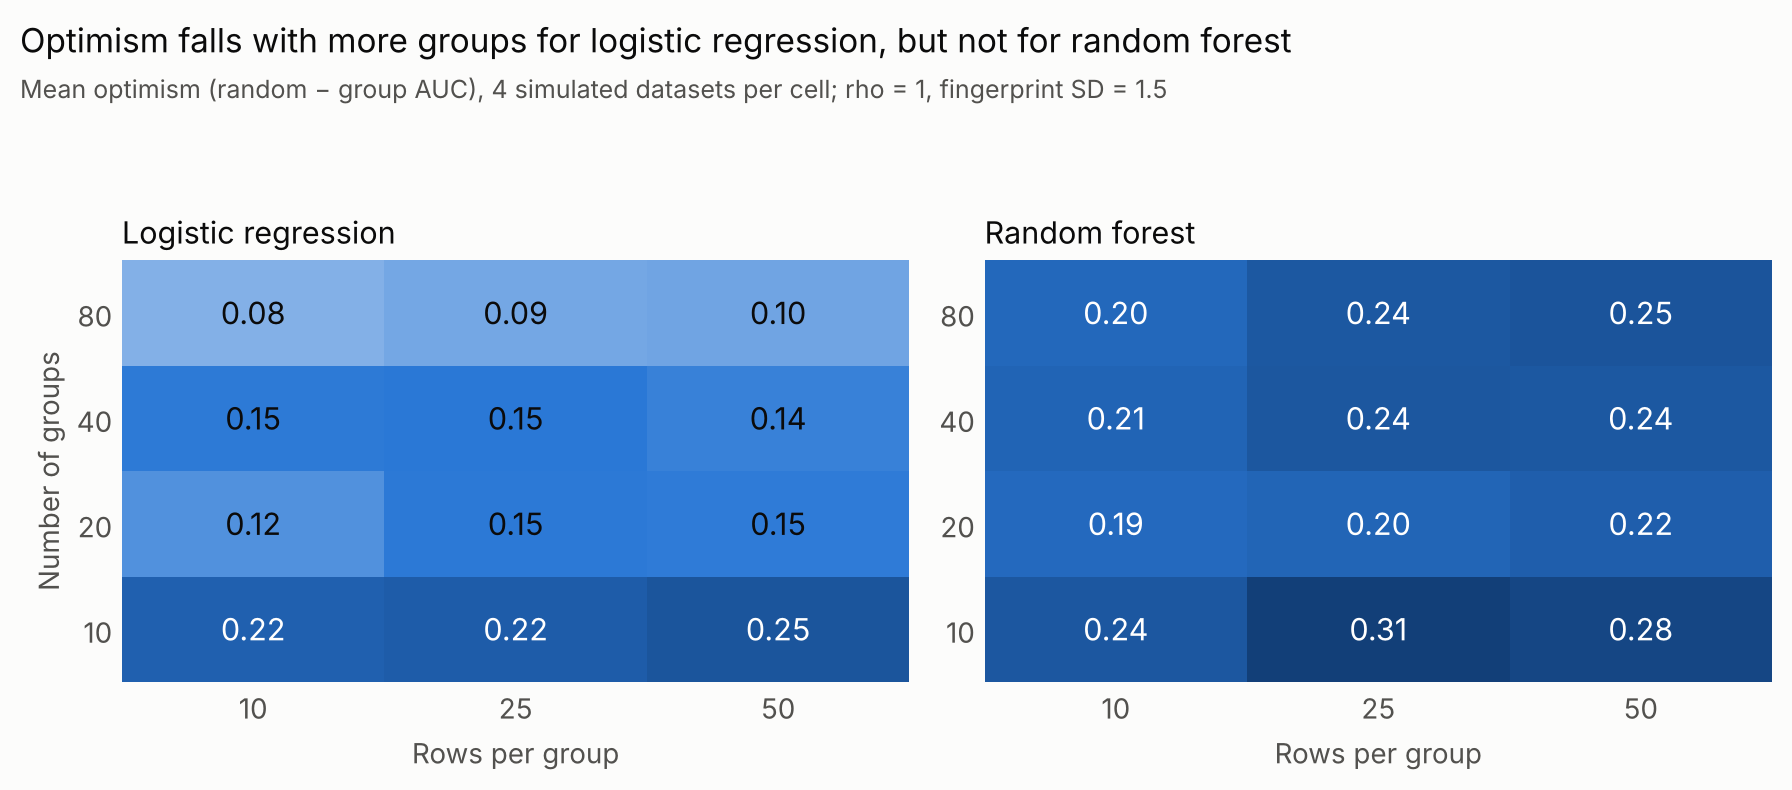
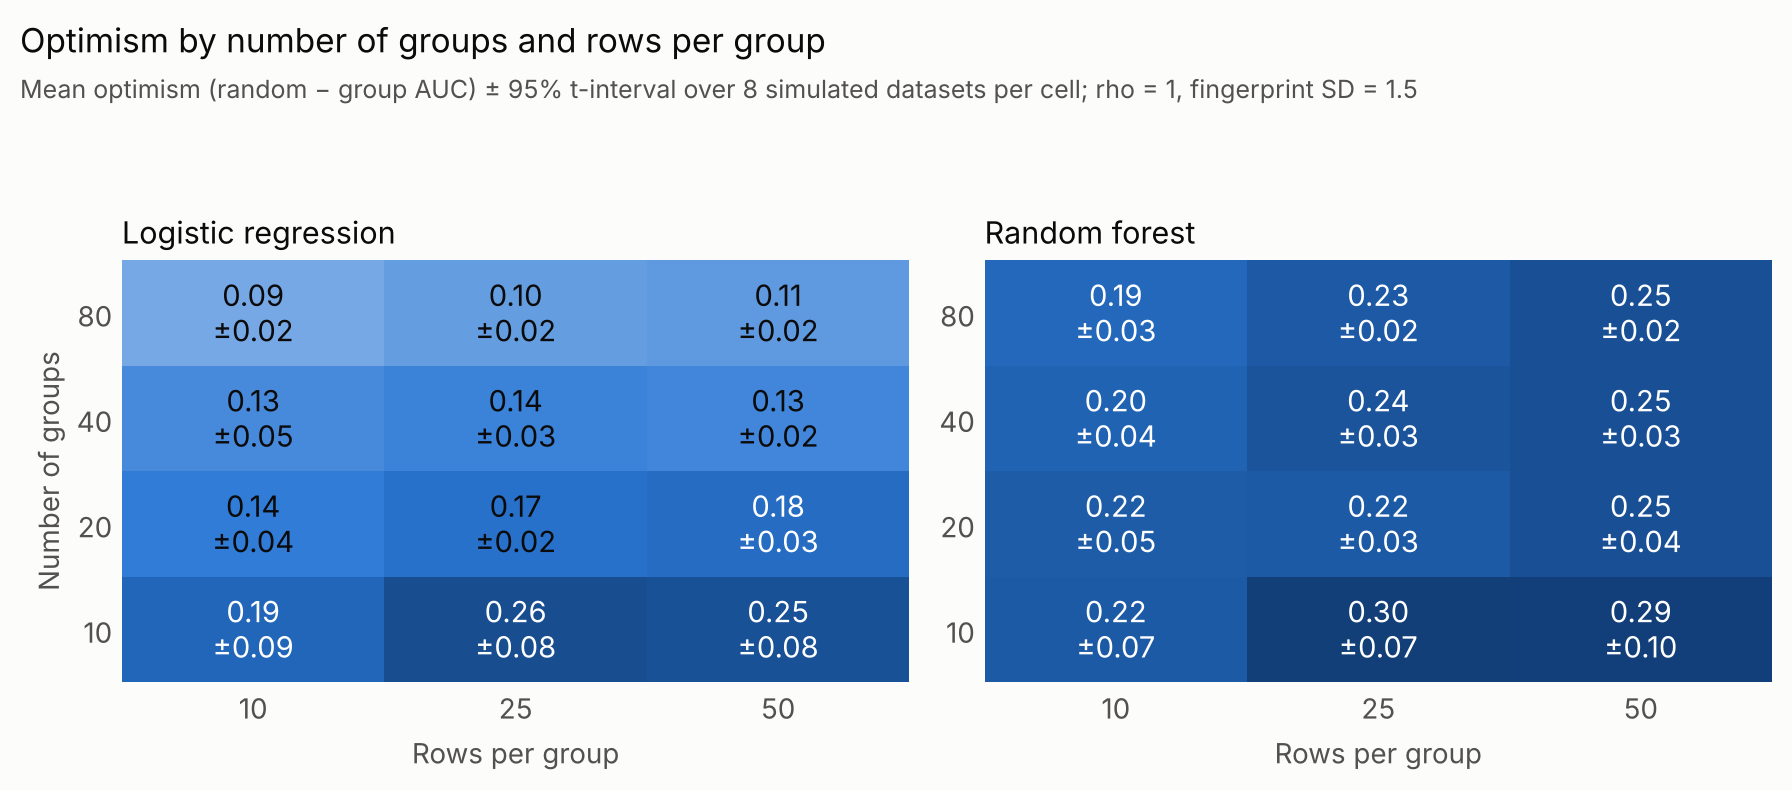
Finalize Fig 3 with 8 seeds and intervals

diff --git a/scripts/make_fig3.py b/scripts/make_fig3.py
@@ -1,12 +1,16 @@
 """Fig 3: optimism heatmap over number of groups x rows per group (rho=1, fingerprint SD=1.5).
 Input: docs/synthetic_sensitivity_raw.csv  Output: docs/fig3_sensitivity.png"""
 import sys, numpy as np, pandas as pd, matplotlib; matplotlib.use("Agg")
+from scipy import stats
 import matplotlib.pyplot as plt
 from matplotlib.colors import LinearSegmentedColormap
 src = sys.argv[1] if len(sys.argv) > 1 else "docs/synthetic_sensitivity_raw.csv"
 out = sys.argv[2] if len(sys.argv) > 2 else "docs/fig3_sensitivity.png"
 t = pd.read_csv(src)
-m = t.groupby(["model", "n_groups", "per_group"]).optimism.mean().reset_index()
+g = t.groupby(["model", "n_groups", "per_group"]).optimism
+m = g.mean().reset_index()
+m["half"] = (g.std(ddof=1) / np.sqrt(g.count()) * stats.t.ppf(0.975, g.count() - 1)).values
+N = int(t.seed.nunique())
 SURF, INK, INK2 = "#fcfcfb", "#0b0b0b", "#52514e"
 cmap = LinearSegmentedColormap.from_list("blue", ["#eaf2fc", "#2a78d6", "#123f78"])
 vmax = m.optimism.max()
@@ -14,11 +18,12 @@ names = {"logreg": "Logistic regression", "rf": "Random forest"}
 fig, axs = plt.subplots(1, 2, figsize=(9, 3.9), facecolor=SURF)
 for ax, mod in zip(axs, ["logreg", "rf"]):
     p = m[m.model == mod].pivot(index="n_groups", columns="per_group", values="optimism").sort_index(ascending=False)
+    hw = m[m.model == mod].pivot(index="n_groups", columns="per_group", values="half").sort_index(ascending=False)
     ax.imshow(p.values, cmap=cmap, vmin=0, vmax=vmax, aspect="auto")
     for i in range(p.shape[0]):
         for j in range(p.shape[1]):
             v = p.values[i, j]
-            ax.text(j, i, f"{v:.2f}", ha="center", va="center", fontsize=11,
+            ax.text(j, i, f"{v:.2f}\n±{hw.values[i, j]:.2f}", ha="center", va="center", fontsize=10.5,
                     color="white" if v > 0.6 * vmax else INK)
     ax.set_xticks(range(p.shape[1])); ax.set_xticklabels(p.columns)
     ax.set_yticks(range(p.shape[0])); ax.set_yticklabels(p.index)
@@ -26,9 +31,9 @@ for ax, mod in zip(axs, ["logreg", "rf"]):
     ax.set_xlabel("Rows per group", color=INK2); ax.tick_params(colors=INK2, length=0)
     for s in ax.spines.values(): s.set_visible(False)
 axs[0].set_ylabel("Number of groups", color=INK2)
-fig.suptitle("Optimism falls with more groups for logistic regression, but not for random forest",
+fig.suptitle("Optimism by number of groups and rows per group",
              x=0.01, y=1.0, ha="left", fontsize=12, color=INK)
-fig.text(0.01, 0.9, "Mean optimism (random − group AUC), 4 simulated datasets per cell; rho = 1, fingerprint SD = 1.5",
+fig.text(0.01, 0.9, f"Mean optimism (random − group AUC) ± 95% t-interval over {N} simulated datasets per cell; rho = 1, fingerprint SD = 1.5",
          fontsize=9, color=INK2)
 fig.tight_layout(rect=(0, 0, 1, 0.88))
 fig.savefig(out, dpi=200, facecolor=SURF, bbox_inches="tight")

diff --git a/scripts/sensitivity.py b/scripts/sensitivity.py
@@ -1,11 +1,13 @@
 """Sensitivity grid: optimism vs number of groups and rows per group (synthetic).
-Usage: python scripts/sensitivity.py [out_raw.csv]   (set PYTHONPATH=src if not pip-installed)"""
+Usage: python scripts/sensitivity.py [out_raw.csv] [seed_lo] [seed_hi]   (set PYTHONPATH=src if not pip-installed)"""
 import sys, pandas as pd
 from splitaudit.synthetic import make_grouped
 from splitaudit.audit import run_audit
 out = sys.argv[1] if len(sys.argv) > 1 else "docs/synthetic_sensitivity_raw.csv"
+seed_lo = int(sys.argv[2]) if len(sys.argv) > 2 else 1     # first data seed
+seed_hi = int(sys.argv[3]) if len(sys.argv) > 3 else 4     # last data seed (inclusive)
 rows = []
-for seed in range(1, 5):
+for seed in range(seed_lo, seed_hi + 1):
     for ng in (10, 20, 40, 80):
         for pg in (10, 25, 50):
             df = make_grouped(n_groups=ng, per_group=pg, rho=1.0, fingerprint_sd=1.5, seed=seed)
